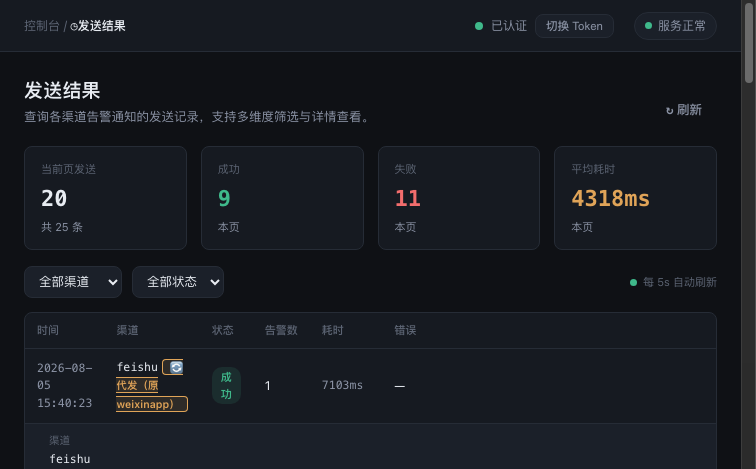
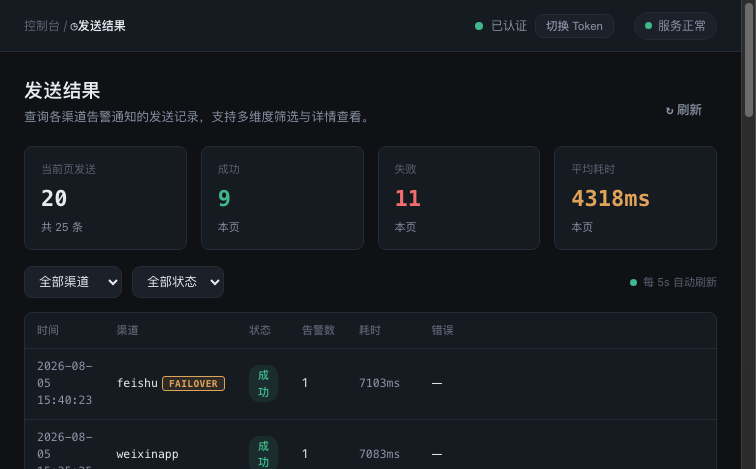
fix(api): record actual sent payload (with failover notice) on failover success

diff --git a/pkg/api/api.go b/pkg/api/api.go
@@ -209,10 +209,10 @@ func (c *Controller) send(request *restful.Request, response *restful.Response) 
 	if err != nil {
 		// sender 构造失败（如无凭据）：渠道不可用，尝试故障转移；无备用则失败
 		if !c.failoverDisabled {
-			fallbackErr, used := c.sendWithFailover(channelType, &models.Payload{Raw: string(raw)})
+			fallbackErr, used, actualPayload := c.sendWithFailover(channelType, &models.Payload{Raw: string(raw)})
 			if fallbackErr == nil {
 				c.logger.Info("send succeeded via failover (sender create failed)", "primary", channelType, "used", used)
-				c.recordSend(used, "success", "", promMsg, &models.Payload{Raw: string(raw)}, 0, channelType)
+				c.recordSend(used, "success", "", promMsg, actualPayload, 0, channelType)
 				response.WriteHeader(http.StatusNoContent)
 				return
 			}
@@ -254,11 +254,11 @@ func (c *Controller) send(request *restful.Request, response *restful.Response) 
 	if sendErr != nil {
 		// 主渠道重试耗尽：立即尝试备用渠道（故障转移）
 		if !c.failoverDisabled {
-			fallbackErr, used := c.sendWithFailover(channelType, payload)
+			fallbackErr, used, actualPayload := c.sendWithFailover(channelType, payload)
 			if fallbackErr == nil {
 				c.logger.Info("send succeeded via failover", "primary", channelType, "used", used)
-				// 记录代发渠道（used），并标记故障转移 + 原始渠道（channelType）
-				c.recordSend(used, "success", "", promMsg, payload, time.Since(sendStart), channelType)
+				// 记录代发渠道（used）+ 实际发送的 payload（含代发提示），并标记故障转移 + 原始渠道（channelType）
+				c.recordSend(used, "success", "", promMsg, actualPayload, time.Since(sendStart), channelType)
 				response.WriteHeader(http.StatusNoContent)
 				return
 			}
@@ -330,10 +330,10 @@ func withFailoverNotice(payload *models.Payload, primary, backup string) *models
 	return &cp
 }
 
-// sendWithFailover 遍历备用渠道逐个尝试发送，返回 (聚合错误, 实际成功渠道)。
-// 任一备用渠道成功立即返回 (nil, 该渠道)；全部失败返回聚合错误。
+// sendWithFailover 遍历备用渠道逐个尝试发送，返回 (聚合错误, 实际成功渠道, 实际发送的 payload)。
+// 任一备用渠道成功立即返回 (nil, 该渠道, 含代发提示的实际 payload)；全部失败返回聚合错误。
 // 每个备用渠道发送的内容均追加故障转移提示（withFailoverNotice）。
-func (c *Controller) sendWithFailover(primary string, payload *models.Payload) (error, string) {
+func (c *Controller) sendWithFailover(primary string, payload *models.Payload) (error, string, *models.Payload) {
 	var errs []string
 	for _, ch := range c.failoverChannels(primary) {
 		noticePayload := withFailoverNotice(payload, primary, ch)
@@ -342,9 +342,9 @@ func (c *Controller) sendWithFailover(primary string, payload *models.Payload) (
 			c.logger.Warn("failover channel failed", "channel", ch, "err", err.Error())
 			continue
 		}
-		return nil, ch
+		return nil, ch, noticePayload
 	}
-	return fmt.Errorf("all failover channels failed: %s", strings.Join(errs, "; ")), ""
+	return fmt.Errorf("all failover channels failed: %s", strings.Join(errs, "; ")), "", nil
 }
 
 // buildPayload 构造发送 payload：渠道有自定义模板时用字段映射渲染，否则用内置模板。

diff --git a/pkg/api/failover_test.go b/pkg/api/failover_test.go
@@ -143,7 +143,7 @@ func TestSendWithFailover_BackupSuccess(t *testing.T) {
 	created["backup"].failures = 0
 
 	payload := &models.Payload{Title: "t", Markdown: "m"}
-	err, used := c.sendWithFailover("primary", payload)
+	err, used, _ := c.sendWithFailover("primary", payload)
 	if err != nil {
 		t.Fatalf("unexpected error: %v", err)
 	}
@@ -172,7 +172,7 @@ func TestSendWithFailover_AllFail(t *testing.T) {
 	}
 
 	payload := &models.Payload{Title: "t"}
-	err, used := c.sendWithFailover("primary", payload)
+	err, used, _ := c.sendWithFailover("primary", payload)
 	if err == nil {
 		t.Fatal("expected error when all channels fail")
 	}
@@ -187,7 +187,7 @@ func TestSendWithFailover_AllFail(t *testing.T) {
 func TestSendWithFailover_NoBackup(t *testing.T) {
 	c, _ := newTestController(t, []string{"only"})
 	payload := &models.Payload{Title: "t"}
-	err, used := c.sendWithFailover("only", payload)
+	err, used, _ := c.sendWithFailover("only", payload)
 	if err == nil {
 		t.Fatal("expected error when no backup channel exists")
 	}
@@ -229,7 +229,7 @@ func TestSendWithFailover_BackupGetsNotice(t *testing.T) {
 	})
 
 	payload := &models.Payload{Title: "t", Markdown: "original md"}
-	err, used := c.sendWithFailover("primary", payload)
+	err, used, _ := c.sendWithFailover("primary", payload)
 	if err != nil || used != "backup" {
 		t.Fatalf("expected backup success, got err=%v used=%q", err, used)
 	}
